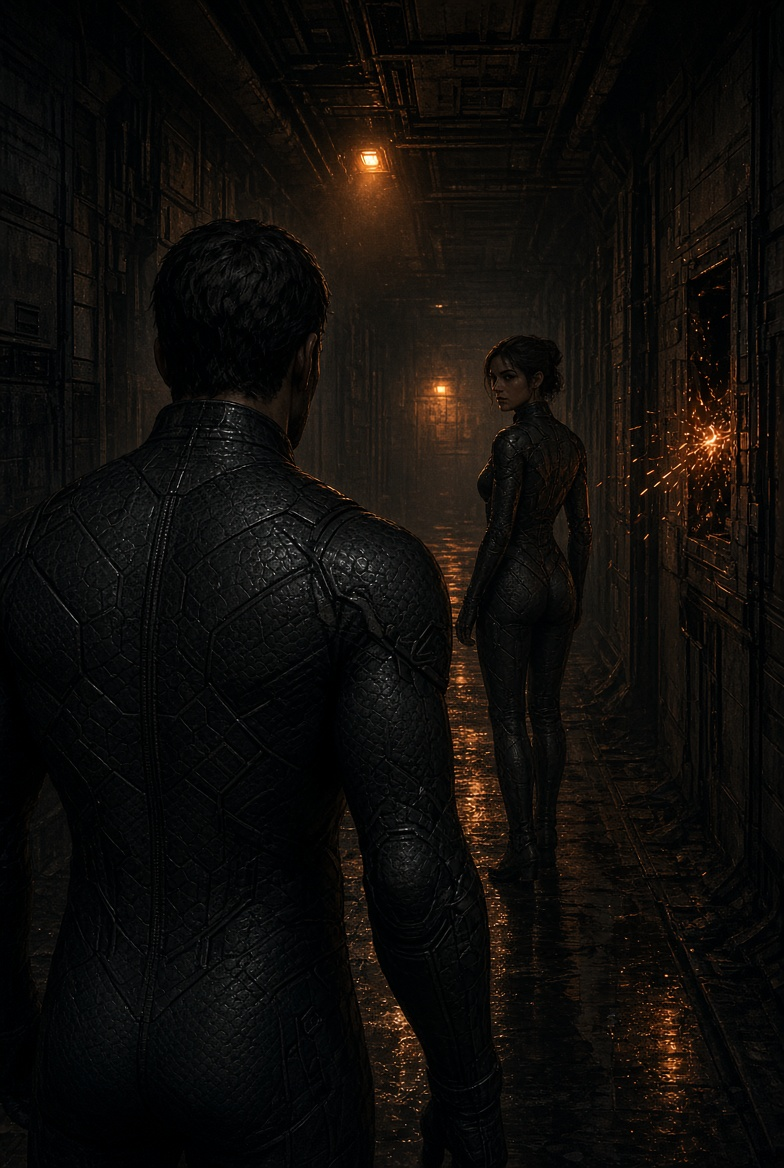
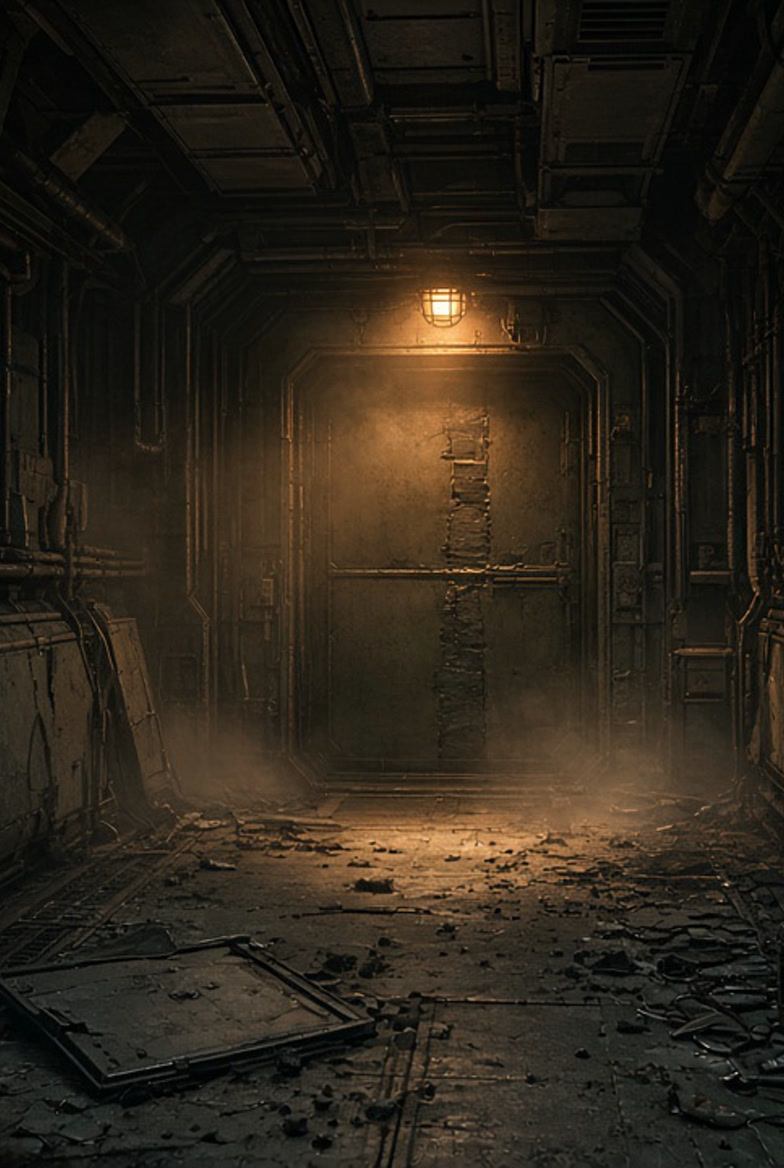
SUN-OVERNIGHT-BATCH-C-TIME-PASS-WIRE-01 — interrupt_resolve + burn + seal + time_pass
Canon PASS overnight. Four unique JPGs + remaps. Leave power_crisis/corridor_variant/corridor_pressure_2. IMAGES_TREE d26991027b65d0c0c22d4b75c41c36212a3b201d. No 0.36 / no Netlify.

diff --git a/src/state.js b/src/state.js
@@ -109,7 +109,7 @@ const sceneImages = {
   lead_watch:      "images/corridor_pressure_2.jpg",
   power_crisis:    "images/power_stress_2.jpg",
   private_stores:  "images/private_stores.jpg",
-  time_pass:       "images/corridor_pressure_2.jpg",
+  time_pass:       "images/time_pass.jpg",
 
   // Crisis family
   crisis:          "images/crisis.jpg",
@@ -191,8 +191,8 @@ const sceneImages = {
   act2_spine_next:      "images/corridor.jpg",
   act3_reckoning_pattern: "images/act3_reckoning_pattern.jpg",
   act3_reckoning_heading: "images/act3_reckoning_heading.jpg",
-  act3_reckoning_burn_stale: "images/power_crisis.jpg",
-  act3_reckoning_burn_verified: "images/power_crisis.jpg",
+  act3_reckoning_burn_stale: "images/act3_reckoning_burn.jpg",
+  act3_reckoning_burn_verified: "images/act3_reckoning_burn.jpg",
   act3_reckoning_delay: "images/act3_reckoning_heading.jpg",
   act3_reckoning_cut:   "images/act3_reckoning_cut.jpg",
   act3_reckoning_briefing: "images/cascade_records.jpg",
@@ -254,9 +254,9 @@ const sceneImages = {
   records_changeorders_after: "images/cascade_records.jpg",
   act3_lethal_mira_board: "images/quiet_mira.jpg",
   act3_lethal_mira_reserve: "images/quiet_mira.jpg",
-  aftermath_seal: "images/corridor_variant.jpg",
-  aftermath_seal_order: "images/corridor_variant.jpg",
-  aftermath_seal_holds: "images/corridor_variant.jpg",
+  aftermath_seal: "images/aftermath_seal.jpg",
+  aftermath_seal_order: "images/aftermath_seal.jpg",
+  aftermath_seal_holds: "images/aftermath_seal.jpg",
   berths_manifest: "images/empty_berths.jpg",
   prom_make_tomas: "images/quiet_tomas.jpg",
   prom_r_tomas: "images/quiet_tomas.jpg",

diff --git a/docs/SUN_OVERNIGHT_BATCH_C_TIME_PASS_WIRE_01.md b/docs/SUN_OVERNIGHT_BATCH_C_TIME_PASS_WIRE_01.md
@@ -1,0 +1,16 @@
+# SUN-OVERNIGHT-BATCH-C-TIME-PASS-WIRE-01
+
+Canon PASS overnight batch C + time_pass v2.
+
+| asset | path | hex16 |
+|---|---|---|
+| ship_interrupt_resolve | images/ship_interrupt_resolve.jpg | b95b6bf3a7ae2597 |
+| act3_reckoning_burn | images/act3_reckoning_burn.jpg | e3be6ecc27fcc002 |
+| aftermath_seal | images/aftermath_seal.jpg | 76d6c05e06be5597 |
+| time_pass v2 | images/time_pass.jpg | 03d11848f8cf5dcb |
+
+Remaps: interrupt_resolve; burn_stale+verified; aftermath_seal+order+holds; time_pass.
+**DID NOT** touch power_crisis.jpg / corridor_variant.jpg / corridor_pressure_2.jpg.
+Intact tether_dock still HOLD.
+parent: `d1362c38be4a19538fda47474d1785ea173cbe3f`
+IMAGES_TREE: `d26991027b65d0c0c22d4b75c41c36212a3b201d`
